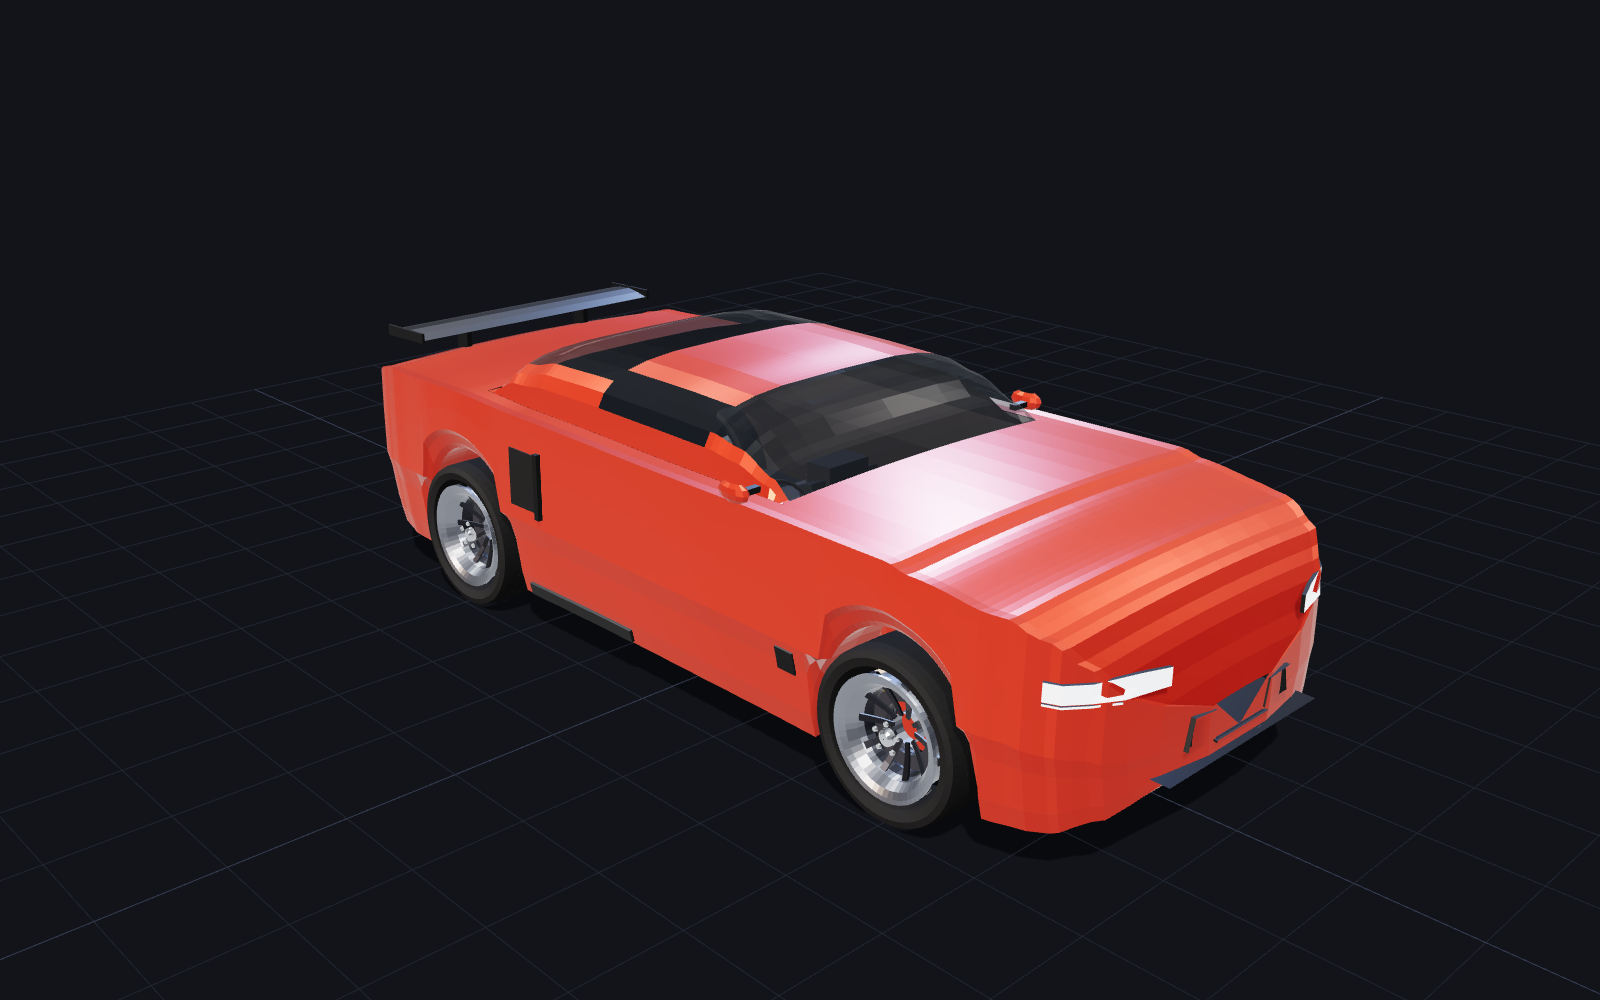
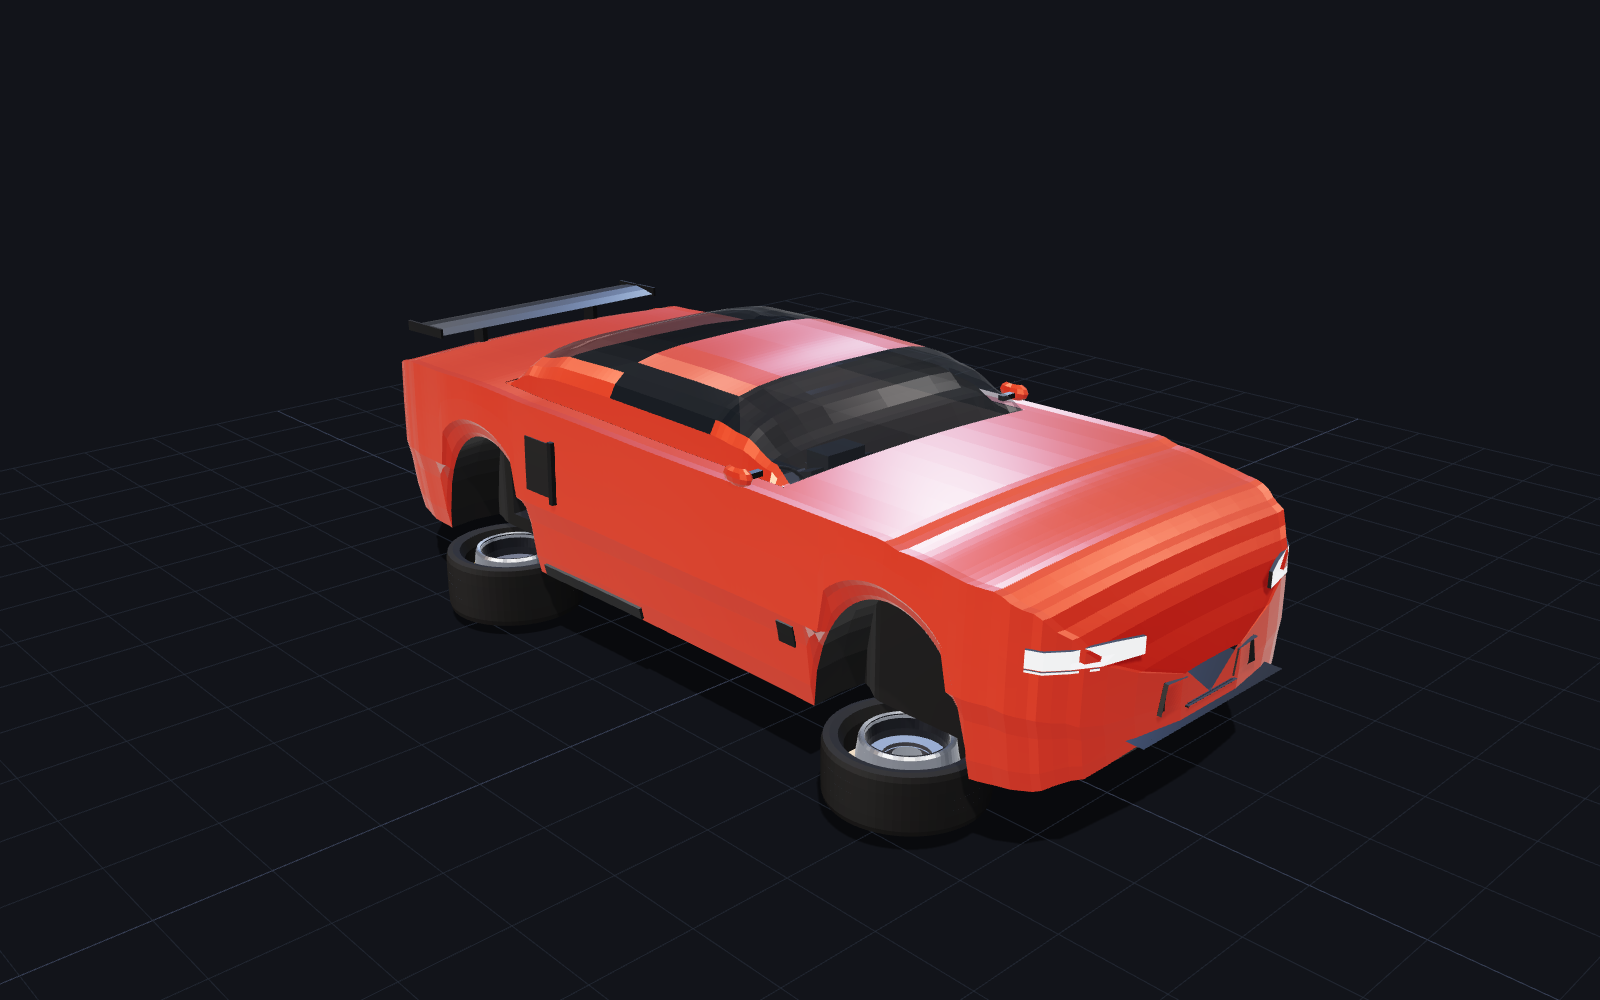
📝 docs: one road through eleven worlds, the hover car and the director
README opens with 缘溪行，忘路之远近。(陶渊明《桃花源记》). The mountain-road
slogan is gone, and so are the bold openers in 怎么做的, which are plain
subheadings now. 这是什么 describes the road and the eleven worlds that
change with mileage, with alpine as the first. 车 describes the fold
(rise 260 mm, wheels flat, cruise at 200 mm, down again below 20 km/h)
with a new render in the hover pose, and 51,300 triangles. The framings
and the cam= parameter include 导演; 怎么做的 gains 导演 and the tunnel
light that follows the lens; the checks table gains director_check and
what presentation_check and build.py --verify now cover.

design.md: the goal and the data flow name the eleven worlds and the
director. Section 9 gains 悬浮 (timing, hinge data in the node extras, the
fold check) and 导演 (shot kinds, glide and dissolve, the sight-line
checks, cooldowns, portrait framing), and says why there is no tunnel
portal shot yet. The tunnel paragraph explains boreSky and carSky. The UI
section covers the mark, tools/brand and the wallpaper line.

package.json's description is the site's line.

Changed region(s): [[0.2188, 0.279, 0.8438, 0.837]]

diff --git a/docs/design.md b/docs/design.md
@@ -2,9 +2,9 @@
 
 ## 目标
 
-一个可以当壁纸的驾驶游戏：车在无尽的山路上自动行驶，也能手动开。路要像真的公路那样被"修"出来：选线、纵坡、盘山、桥、隧道，山体跟着被挖开和填平。
+一个可以当壁纸的驾驶游戏：一条路一直往前修，车在上面自动行驶，也能手动开。路边的世界按里程更换，一共十一个：山间、丘陵、河谷、沿海、沙漠、城市、太空、地底、地狱、天堂、深海。路要像真的公路那样被"修"出来：选线、纵坡、盘山、桥、隧道，地面跟着被挖开和填平。
 
-世界随开过的距离变化，不随时间。这一版只做山间，把地基打牢；原来的其他世界之后按里程接回来，用过渡门衔接。
+世界随开过的距离变化，不随时间。这一版只做第一个世界山间，把地基打牢；其余十个之后按里程接上，用过渡门衔接。
 
 技术栈：three.js r160（已放在 `tools/vendor/`）+ 浏览器 ES module，没有构建步骤。
 
@@ -17,6 +17,7 @@ landform ──► surveyor ──► road ──► corridor ──► terrain 
                             │
                             ├──► roadmesh（路面、护栏、桥、隧道）
                             ├──► car / autopilot（物理与驾驶）
+                            ├──► director（按前方的路挑镜头）
                             └──► hud（仪表上的纵断面）
 
 sunlight（太阳遮挡）被地形、路面、树和车共用
@@ -122,17 +123,23 @@ sunlight（太阳遮挡）被地形、路面、树和车共用
 
 **天光。** 天空球渲染成环境贴图（PMREM），给所有材质提供漫反射天光和反射；地形再按天空开阔度和凹度压暗山谷与冲沟。半球光只补一点方向感。
 
-**隧道。** 车进隧道时阳光降到 3%，天光降到 15%，半球光换成灯光颜色，雾变薄，曝光提高 40%。
+**隧道。** 整个画面的光跟着镜头走：镜头在洞里时，阳光降到 3%，天光降到 15%，半球光换成灯光颜色，雾变薄，曝光提高 40%。镜头在洞外、拍的东西在洞里时，`boreSky` 和 `carSky` 把洞壁、洞内路面和车身上的天光压下去，所以洞口是黑的，车开进去会暗下来，洞外的山还亮着。
 
 **后处理。** 场景 → 泛光（线性 HDR）→ 一个 pass 里做曝光、ACES、转 sRGB、调色和暗角。
 
-## 9. 车与驾驶 `core/`
+## 9. 车、驾驶与镜头 `core/` · `render/presentation.js` · `render/director.js`
 
 **车辆。** 自行车模型加轮胎侧偏：`F = -μ·Fz·tanh(C·α/μ)`，线性区平滑过渡到滑移。纵向有驱动力、滚阻、风阻和刹车，加速时载荷后移。固定步长 1/120 s，和渲染帧率无关。
 
 **自动驾驶。** 转向是前方曲率的前馈，加上航向和横向偏差的反馈，把车稳在车道上。速度是提前规划的：前方 260 m 内每个弯，按 0.42 g 的横向加速度和 2.8 m/s² 的减速度倒推出此处的限速，所以车到回头弯时已经慢下来，而不是进了弯才刹。同车道有前车时保持约两秒车距。车流本身按 IDM 跟驰模型行驶。
 
 **表现。** 车轮转动、前轮转向、悬挂俯仰侧倾。追车镜头的位置、朝向、注视点各有弹簧，镜头会滞后、过弯外摆、随速度拉远；机位之间平滑过渡。镜头不会钻进地面或隧道顶。
+
+**悬浮。** 车速过 40 km/h：车身 0.6 s 抬高 260 mm，四个轮子 0.9 s 绕轮拱里的铰轴转 90° 平躺到底板下，外侧轮面朝下，车身再 0.7 s 落到离地 200 mm，之后以 10 mm、0.7 Hz 轻轻浮动。抬高这一步是因为轮子转到一半时需要的空间比巡航时大。低于 20 km/h 或出事故，按相反的顺序放下；两个阈值隔开，回头弯里不会来回翻。轮毂是一块整流盘，盘上一圈 `emitter` 发光环，排气口换成 `thruster` 推进环，颜色都是 #ff6a3d。铰轴、角度和两个高度写在 glTF 节点的 extras 里，`build.py --verify` 按 5% 的步长把翻转走一遍，检查不碰路面、底板和车身；游戏按同一份数据播放。物理不变，仍按四个轮胎算。车模 51,300 个三角形。
+
+**导演。** 机位 `director` 读前方几百米的已提交采样，看下一座桥、下一个弯、下一组回头弯在哪里，提前把机位放过去。镜头种类：追车、侧拍、前拍、环绕、长焦（站在路边）、桥下仰拍、回头弯上方俯拍。每个镜头 5–12 s。跟车走的机位之间用 1.6 s 绕车滑移，进出站立的机位用 0.45 s 叠化（`post.js` 的 DissolvePass），隧道里一律叠化。用一个机位之前先查视线：镜头到车的连线大部分时间不被地面挡住才用，开拍后每 0.25 s 再查一次，被挡住超过 0.4 s 就换。长焦 30 s、俯拍 35 s、桥下 30 s、环绕 30 s 内不重复。视场角按屏幕宽高比算，竖屏也能把车装进画面。壁纸模式切到导演，退出时还原原来的机位。原来的"侧拍"和"正面"两个机位站在车后，现在由导演的侧拍和前拍机位来做。
+
+洞口镜头没有做：地形高度场盖住了洞口，要先有洞门结构。
 
 ## 10. 界面 `ui/hud.js` · `index.html`
 
@@ -142,9 +149,11 @@ sunlight（太阳遮挡）被地形、路面、树和车共用
 
 仪表只读已提交的路面采样。桥和隧道按弧长扫成一段段区间，车后的路被丢掉时一起丢掉。
 
-**配色。** 面板是中性的磨砂玻璃，强调色只有一个：#ff6a3d，车漆的颜色，只用在代表车的点和竖线上。
+**配色。** 面板是中性的磨砂玻璃，强调色只有一个：#ff6a3d，车漆的颜色，只用在代表车的点和竖线上，以及悬浮车的发光环。
 
-**页面。** 启动画面在第一帧画完后淡出。右下角是机位、自动驾驶、壁纸和 GitHub。窄屏下重新排布；系统设了"减少动态效果"时关掉过渡和启动动画。`?uishot=1` 把画好的一帧作为图片垫在界面下面，因为无头 Chrome 的整页截图在虚拟时间下拿不到 WebGL 层。
+**标志。** 一条路线纵断面：两段上坡夹一段平路，平路正中一个橙点，就是仪表上那个代表车的点。左上角、启动画面、favicon 和 og 图用的都是它。favicon 上路从一边进、另一边出。`tools/brand/build.py` 生成 favicon、apple-touch 图标、轮廓化的字标，以及 og 图的四个候选：纵断面（线上用的这张）、图纸、两张宽银幕电影帧。电影帧和图纸由游戏自己渲染，调色时世界压暗压灰，只留车的橙色。
+
+**页面。** 启动画面在第一帧画完后淡出。右下角是机位、自动驾驶、壁纸和 GitHub。进壁纸模式时，底部浮出一行"行到水穷处，坐看云起时。"，几秒后淡去。窄屏下重新排布；系统设了"减少动态效果"时关掉过渡和启动动画。`?uishot=1` 把画好的一帧作为图片垫在界面下面，因为无头 Chrome 的整页截图在虚拟时间下拿不到 WebGL 层。
 
 ## 11. 画质 `render/quality.js`
 
@@ -163,7 +172,8 @@ sunlight（太阳遮挡）被地形、路面、树和车共用
 | `tools/road_check.mjs [km] [seed…]` | 只跑生成器：统计回头弯、桥、隧道、挖填；纵坡 > 10%、半径 < 13 m、自交即失败 |
 | `tools/physics_check.mjs [秒] [seed]` | 不渲染，按游戏的步长跑车和自动驾驶；出界、翻车、车道偏差 > 1.4 m、停车即失败 |
 | `tools/game_check.mjs [秒] [seed]` | 无头 Chrome 跑真实页面；检查行驶距离、碰撞、翻车、路面块和几何体数量、树 |
-| `tools/presentation_check.mjs` | 车轮、转向、车身姿态、镜头滞后确实在动 |
+| `tools/presentation_check.mjs` | 车轮、转向、车身姿态、镜头滞后确实在动；起步时轮子着地，到速后翻平悬浮 |
+| `tools/director_check.mjs [秒] [seed…]` | 无头跑导演镜头，外加一次竖屏；车在画面里的帧少于 98%、出现不带叠化的跳切、镜头钻进地面即失败 |
 | `tools/shot.mjs` | 一次运行里同时出图和诊断数据 |
 | `tools/stamp.mjs [--check]` | 给 import map 里的每个模块和 `car.glb` 的地址加上内容哈希（`?v=`）；`--check` 只检查不改，`game_check` 先跑它 |
 
@@ -177,4 +187,5 @@ sunlight（太阳遮挡）被地形、路面、树和车共用
 - 地形和森林仍在主线程烘焙，只是分了帧；选线偶尔一步要 17 ms 左右，会掉一帧。两者都可以移进 Worker。
 - 一帧 0.75–2.2 M 三角形、300–450 次绘制。自适应画质只降分辨率和阴影，不减几何。
 - 按里程排世界、过渡门、其余十个世界。
+- 洞门结构，有了它才能做洞口镜头。
 - 声音；隧道出口的强光；手动驾驶手感。
